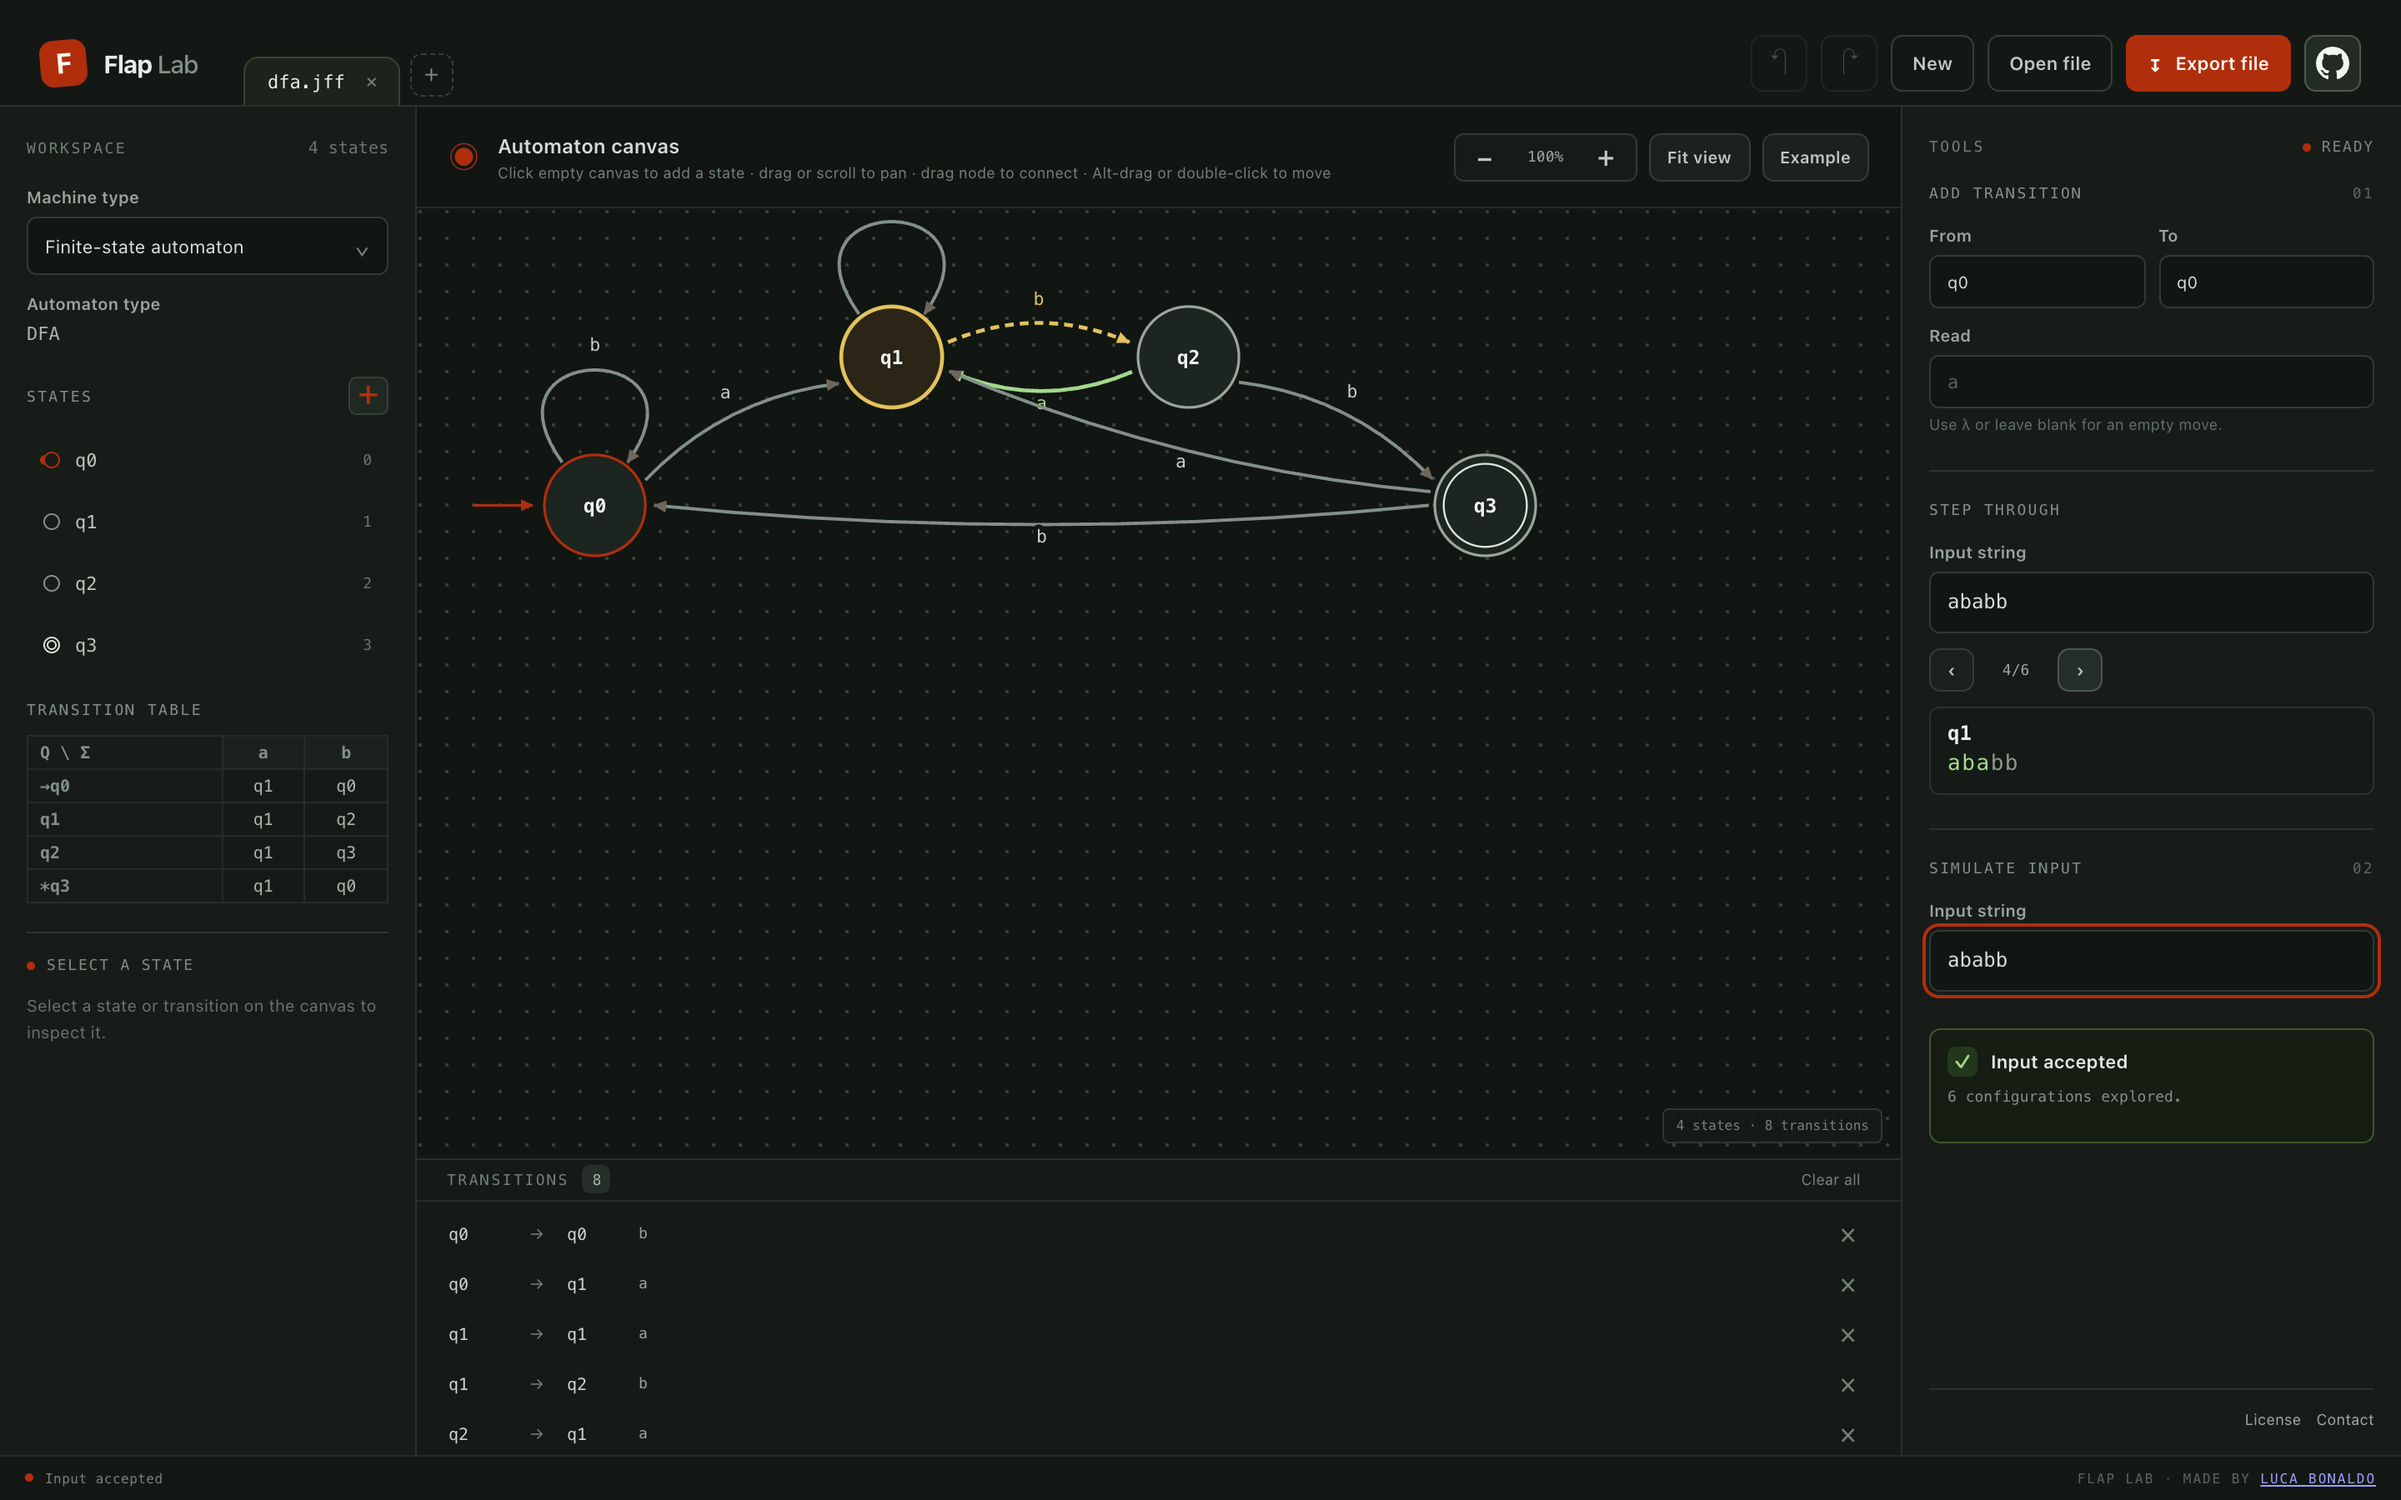
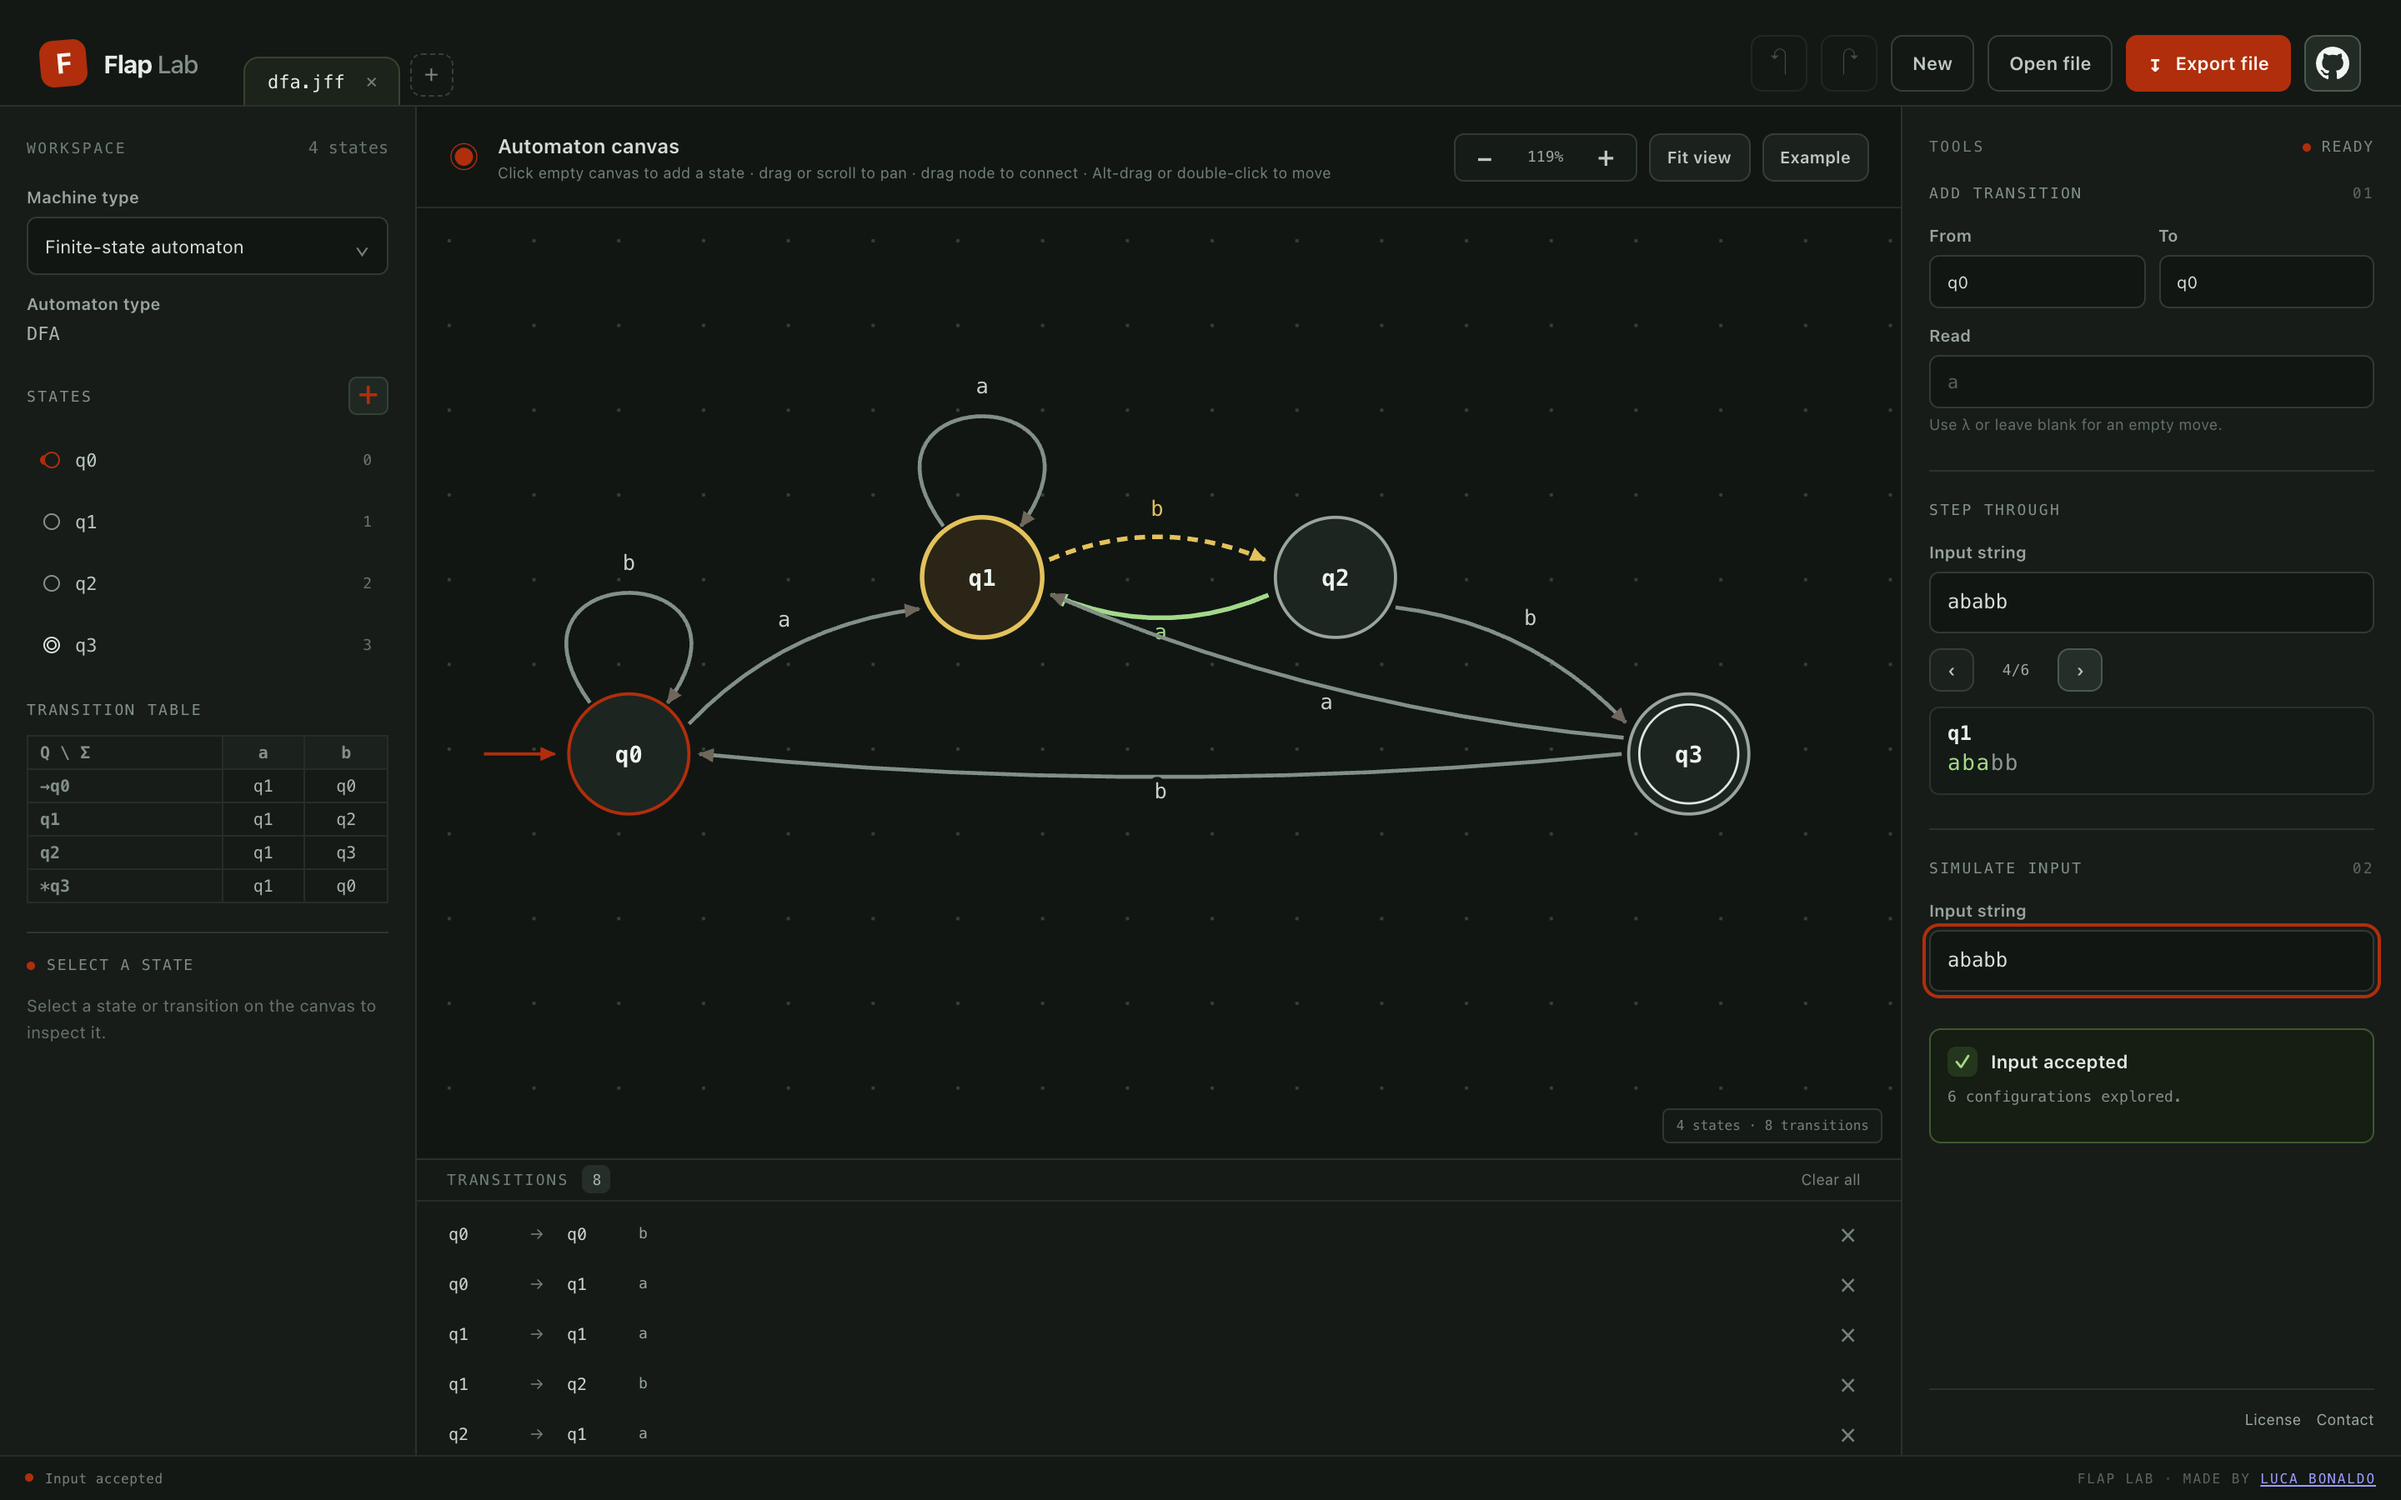
feat: add SEO metadata, social preview image and refreshed screenshots
Add Open Graph/Twitter tags, JSON-LD, canonical URL, robots.txt, sitemap,
web manifest and icons. Regenerate screenshots with fit-to-view.

diff --git a/apps/webapp/index.html b/apps/webapp/index.html
@@ -2,14 +2,63 @@
 <html lang="en">
   <head>
     <meta charset="UTF-8" />
-    <meta name="viewport" content="width=device-width, initial-scale=1.0, maximum-scale=1.0, user-scalable=no" />
-    <link rel="icon" type="image/svg+xml" href="./favicon.svg" />
+    <meta name="viewport" content="width=device-width, initial-scale=1.0" />
+    <title>Flap Lab — Automata &amp; Formal Languages Workbench</title>
+    <meta name="description" content="Free browser-based workbench to design and simulate DFAs, NFAs, pushdown automata, Turing machines and Mealy/Moore transducers. Step through inputs, convert NFAs to DFAs, and import or export JFLAP files. No install, no account." />
+    <meta name="keywords" content="automata, finite automata, DFA, NFA, pushdown automaton, PDA, Turing machine, Mealy machine, Moore machine, formal languages, theory of computation, JFLAP, JFLAP alternative, automata simulator" />
+    <meta name="author" content="Luca Bonaldo" />
+    <meta name="robots" content="index, follow, max-image-preview:large" />
+    <link rel="canonical" href="https://flaplab.lucabonaldo.dev/" />
+
     <meta name="theme-color" content="#101412" />
-    <meta name="description" content="Flap Lab is a browser-based workbench for automata and formal languages." />
-    <title>Flap Lab</title>
+    <link rel="icon" type="image/svg+xml" href="./favicon.svg" />
+    <link rel="icon" type="image/png" sizes="32x32" href="./favicon-32.png" />
+    <link rel="apple-touch-icon" sizes="180x180" href="./apple-touch-icon.png" />
+    <link rel="manifest" href="./site.webmanifest" />
+
+    <meta property="og:type" content="website" />
+    <meta property="og:site_name" content="Flap Lab" />
+    <meta property="og:title" content="Flap Lab — Automata &amp; Formal Languages Workbench" />
+    <meta property="og:description" content="Design and simulate DFAs, NFAs, PDAs, Turing machines and transducers in your browser. A modern, free JFLAP alternative." />
+    <meta property="og:url" content="https://flaplab.lucabonaldo.dev/" />
+    <meta property="og:locale" content="en_US" />
+    <meta property="og:image" content="https://flaplab.lucabonaldo.dev/og-image.png" />
+    <meta property="og:image:secure_url" content="https://flaplab.lucabonaldo.dev/og-image.png" />
+    <meta property="og:image:type" content="image/png" />
+    <meta property="og:image:width" content="1200" />
+    <meta property="og:image:height" content="630" />
+    <meta property="og:image:alt" content="Flap Lab: automata and formal languages, in your browser. Screenshot of a DFA being simulated." />
+
+    <meta name="twitter:card" content="summary_large_image" />
+    <meta name="twitter:title" content="Flap Lab — Automata &amp; Formal Languages Workbench" />
+    <meta name="twitter:description" content="Design and simulate DFAs, NFAs, PDAs, Turing machines and transducers in your browser. A modern, free JFLAP alternative." />
+    <meta name="twitter:image" content="https://flaplab.lucabonaldo.dev/og-image.png" />
+    <meta name="twitter:image:alt" content="Flap Lab: automata and formal languages, in your browser. Screenshot of a DFA being simulated." />
+
+    <script type="application/ld+json">
+      {
+        "@context": "https://schema.org",
+        "@type": "WebApplication",
+        "name": "Flap Lab",
+        "url": "https://flaplab.lucabonaldo.dev/",
+        "description": "Browser-based workbench to design and simulate finite automata, pushdown automata, Turing machines and Mealy/Moore transducers.",
+        "applicationCategory": "EducationalApplication",
+        "operatingSystem": "Any (web browser)",
+        "browserRequirements": "Requires JavaScript",
+        "image": "https://flaplab.lucabonaldo.dev/og-image.png",
+        "isAccessibleForFree": true,
+        "offers": { "@type": "Offer", "price": "0", "priceCurrency": "USD" },
+        "author": { "@type": "Person", "name": "Luca Bonaldo", "url": "https://lucabonaldo.dev" },
+        "codeRepository": "https://github.com/LucaBonaldoIT/flaplab"
+      }
+    </script>
   </head>
   <body>
     <div id="app"></div>
+    <noscript>
+      <h1>Flap Lab — Automata &amp; Formal Languages Workbench</h1>
+      <p>Flap Lab is a free, browser-based workbench to design and simulate DFAs, NFAs, pushdown automata, Turing machines and Mealy/Moore transducers. It requires JavaScript. Source code: <a href="https://github.com/LucaBonaldoIT/flaplab">github.com/LucaBonaldoIT/flaplab</a>.</p>
+    </noscript>
     <script type="module" src="/src/main.ts"></script>
   </body>
 </html>

diff --git a/README.md b/README.md
@@ -27,7 +27,7 @@ Design and simulate finite-state, pushdown, and Turing machines and transducers,
 
 ## Overview
 
-Flap Lab is a static, browser-based reimagining of the classic JFLAP toolkit. It pairs a TypeScript computational core with a Vite-powered interface. There is no backend, no account, and no data leaves your machine. Documents are created, edited, and exchanged locally as `.jff` files.
+Flap Lab is a free, static, browser-based JFLAP alternative: a modern reimagining of the classic automata toolkit for students, teachers, and researchers. It pairs a TypeScript computational core with a Vite-powered interface. There is no backend, no account, and no data leaves your machine. Documents are created, edited, and exchanged locally as `.jff` files.
 
 ## Features
 
